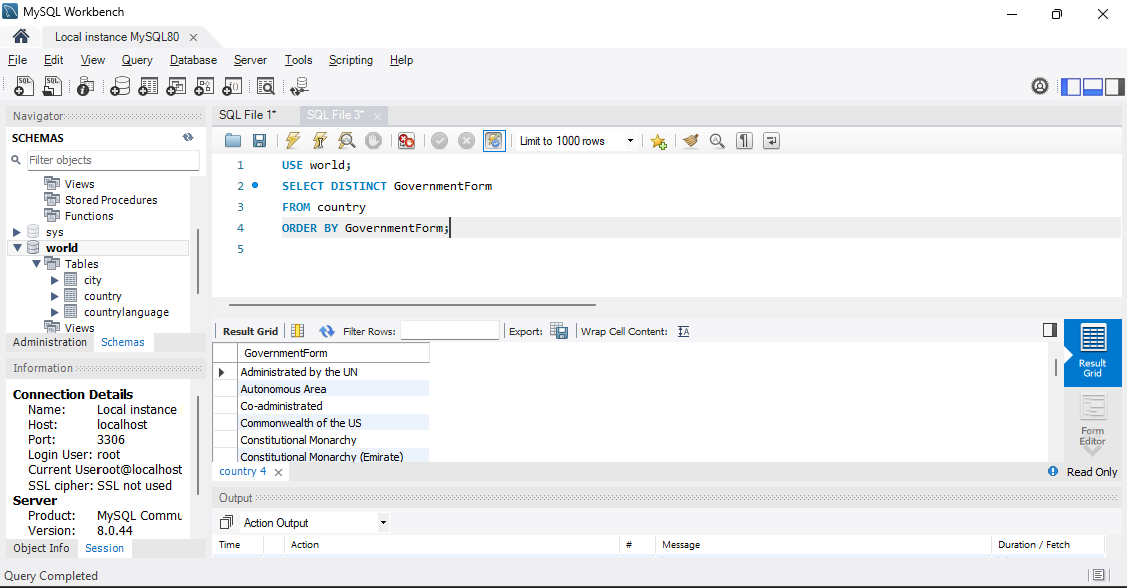
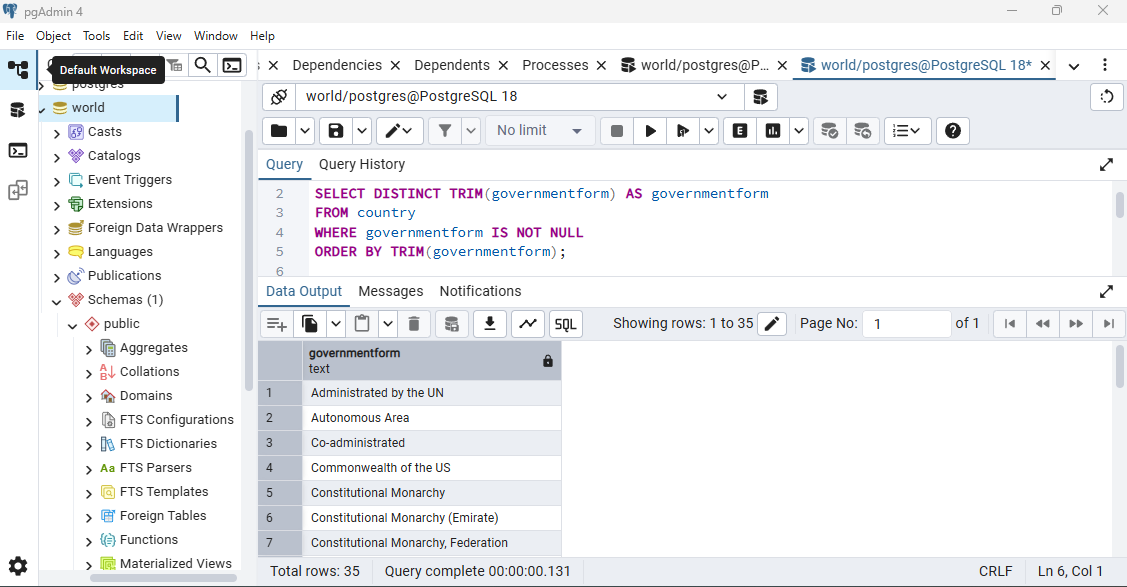
Completed Exercise 1_World DB SQL Pratice

diff --git a/exercises/exercise02.md b/exercises/exercise02.md
@@ -23,13 +23,14 @@
 When importing records from `worldPGSQL.sql`, **how many cities were imported**?
 
 ### Answer
-_Write the number of cities imported._
+4079 cities imported. 
 
 ### Screenshot
 _Show evidence of how you determined this (for example, a COUNT query)._
 
 ```sql
--- Your SQL here
+SELECT COUNT(*) AS city_count
+FROM city;
 ```
 
 ![Q1 Screenshot](screenshots/q1_city_count.png)
@@ -43,7 +44,12 @@ Using the World database, write the SQL command to **display each country name a
 ### SQL
 
 ```sql
--- Your SQL here
+SELECT c.name AS country_name,
+       cl.language AS language_name
+FROM country c
+JOIN countrylanguage cl
+  ON c.code = cl.countrycode
+ORDER BY c.name, cl.language;
 ```
 
 ### Screenshot
@@ -59,7 +65,13 @@ Using the World database, write the SQL command to **display each country name a
 ### SQL
 
 ```sql
--- Your SQL here
+SELECT c.name AS country_name,
+       cl.language AS official_language
+FROM country c
+JOIN countrylanguage cl
+  ON c.code = cl.countrycode
+WHERE cl.isofficial = 'T'
+ORDER BY c.name, cl.language;
 ```
 
 ### Screenshot
@@ -88,7 +100,7 @@ ON country.code = countrylanguage.countrycode;
 **In your own words**, describe what data the **second query returns that the first query does not**.
 
 ### Answer
-_Write your explanation here._
+First query is more of an inner join that checks for the countrylanguage and it returns only that has matching row for the countrylanguage. However, the second query is for left outer join which does not care if it has the matching row or not and it returns all countries, even those with no matching language rows; for those, the countrylanguage columns are NULL.
 
 ---
 
@@ -100,7 +112,11 @@ Do **not** repeat any form of government more than once.
 ### SQL
 
 ```sql
--- Your SQL here
+SELECT DISTINCT TRIM(governmentform) AS governmentform
+FROM country
+WHERE governmentform IS NOT NULL
+ORDER BY TRIM(governmentform);
+
 ```
 
 ### Screenshot
@@ -117,7 +133,13 @@ Label the column **"City or Country Name"**.
 ### SQL
 
 ```sql
--- Your SQL here
+SELECT name AS "City or Country Name"
+FROM city
+UNION
+SELECT name AS "City or Country Name"
+FROM country
+ORDER BY "City or Country Name";
+
 ```
 
 ### Screenshot
@@ -134,7 +156,14 @@ Be sure to **sort by country name**.
 ### SQL
 
 ```sql
--- Your SQL here
+SELECT c.name AS country_name,
+       COUNT(cl.language) AS language_count
+FROM country c
+LEFT JOIN countrylanguage cl
+  ON c.code = cl.countrycode
+GROUP BY c.name
+ORDER BY c.name;
+
 ```
 
 ### Screenshot
@@ -151,7 +180,12 @@ Be sure to **sort by language name**.
 ### SQL
 
 ```sql
--- Your SQL here
+SELECT cl.language AS language_name,
+       COUNT(DISTINCT cl.countrycode) AS countries_spoken_in
+FROM countrylanguage cl
+GROUP BY cl.language
+ORDER BY cl.language;
+
 ```
 
 ### Screenshot
@@ -169,7 +203,16 @@ Using the World database, write the SQL command to **list countries that have mo
 ### SQL
 
 ```sql
--- Your SQL here
+SELECT c.name AS country_name,
+       COUNT(*) AS official_language_count
+FROM country c
+JOIN countrylanguage cl
+  ON c.code = cl.countrycode
+WHERE cl.isofficial = 'T'
+GROUP BY c.name
+HAVING COUNT(*) > 2
+ORDER BY official_language_count DESC, c.name;
+
 ```
 
 ### Screenshot
@@ -187,7 +230,12 @@ Using the World database, write the SQL command to **find cities where the distr
 ### SQL
 
 ```sql
--- Your SQL here
+SELECT id, name, countrycode, district
+FROM city
+WHERE district IS NULL
+   OR district = '-'
+   OR district LIKE '-%';
+
 ```
 
 ### Screenshot
@@ -205,7 +253,21 @@ Using the World database, write the SQL command to **calculate the percentage of
 ### SQL
 
 ```sql
--- Your SQL here
+SELECT
+  ROUND(
+    100.0 * SUM(
+      CASE
+        WHEN district IS NULL
+          OR TRIM(district) LIKE '-%'
+          OR TRIM(district) LIKE '–%'   -- en-dash
+        THEN 1 ELSE 0
+      END
+    ) / COUNT(*),
+    2
+  ) AS missing_district_percentage
+FROM city;
+
+
 ```
 
 ### Screenshot
